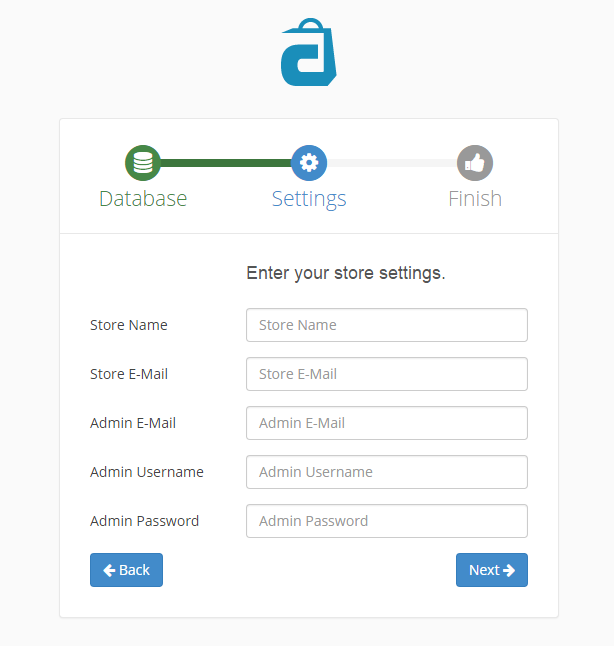
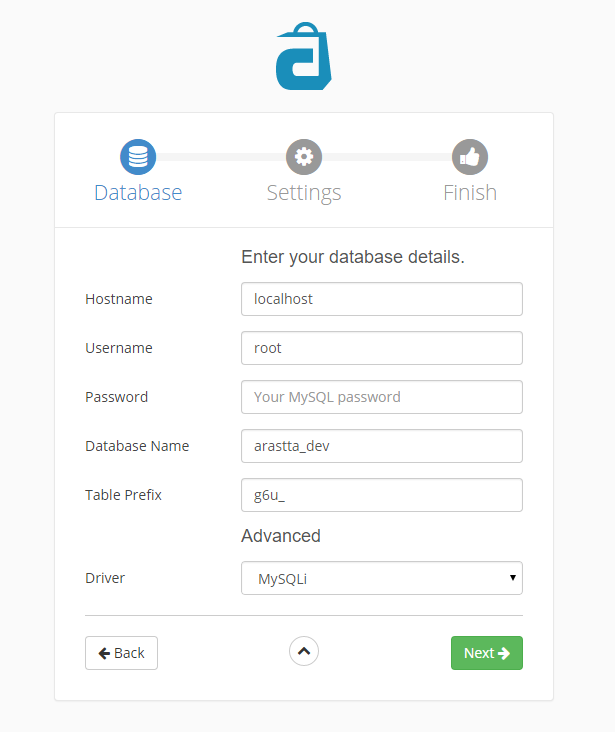
Installation updated

diff --git a/installation.md b/installation.md
@@ -68,23 +68,29 @@ We are now ready to install Arastta directly onto a website. You should open up 
 
 This page is the installation page. The following steps will help you complete the installation process for Arastta.
 
-### Step 1. Database
+### Step 1. Language
 
 ![arastta step1](_images/installation-step-1.png)
 
-You need to fill in the spaces by adding the database connection details (Hostname, Username/Password, Database Name and Table Prefix). You can use any already created database or let Arastta create it for you during the installation.
+The first step is choosing which language you want to use. This is a good way for all who want to use a different language as default.
 
-### Step 2. Settings
+### Step 2. Database
 
 ![arastta step2](_images/installation-step-2.png)
 
-This step allows you to add the Store Name & E-mail also to create a new Admin E-mail, Username and Password for administration access to the Arastta shop.
+You need to fill in the spaces by adding the database connection details (Hostname, Username/Password, Database Name and Table Prefix). Also the Advanced part (Driver) allows you to choose the database type. You can use any already created database or let Arastta create it for you during the installation.
 
-### Step 3. Finished
+### Step 3. Settings
+
+![arastta step3](_images/installation-step-3.png)
+
+This step allows you to add the Store Name & E-mail also to create a new Admin E-mail, Username and Password for administration access to the Arastta shop. And the Advanced part allows you to set the Admin First & Last name, also you can install or not the demo data.
+
+### Step 4. Finished
 
 Now that installation is complete, the "install" folder is no longer required and it will be removed automatically by the system. You now have the option to browse the store front or choose to log into the admin panel.
 
-![arastta step3](_images/installation-step-3.png)
+![arastta step4](_images/installation-step-4.png)
 
 Updating Arastta
 ----------------
